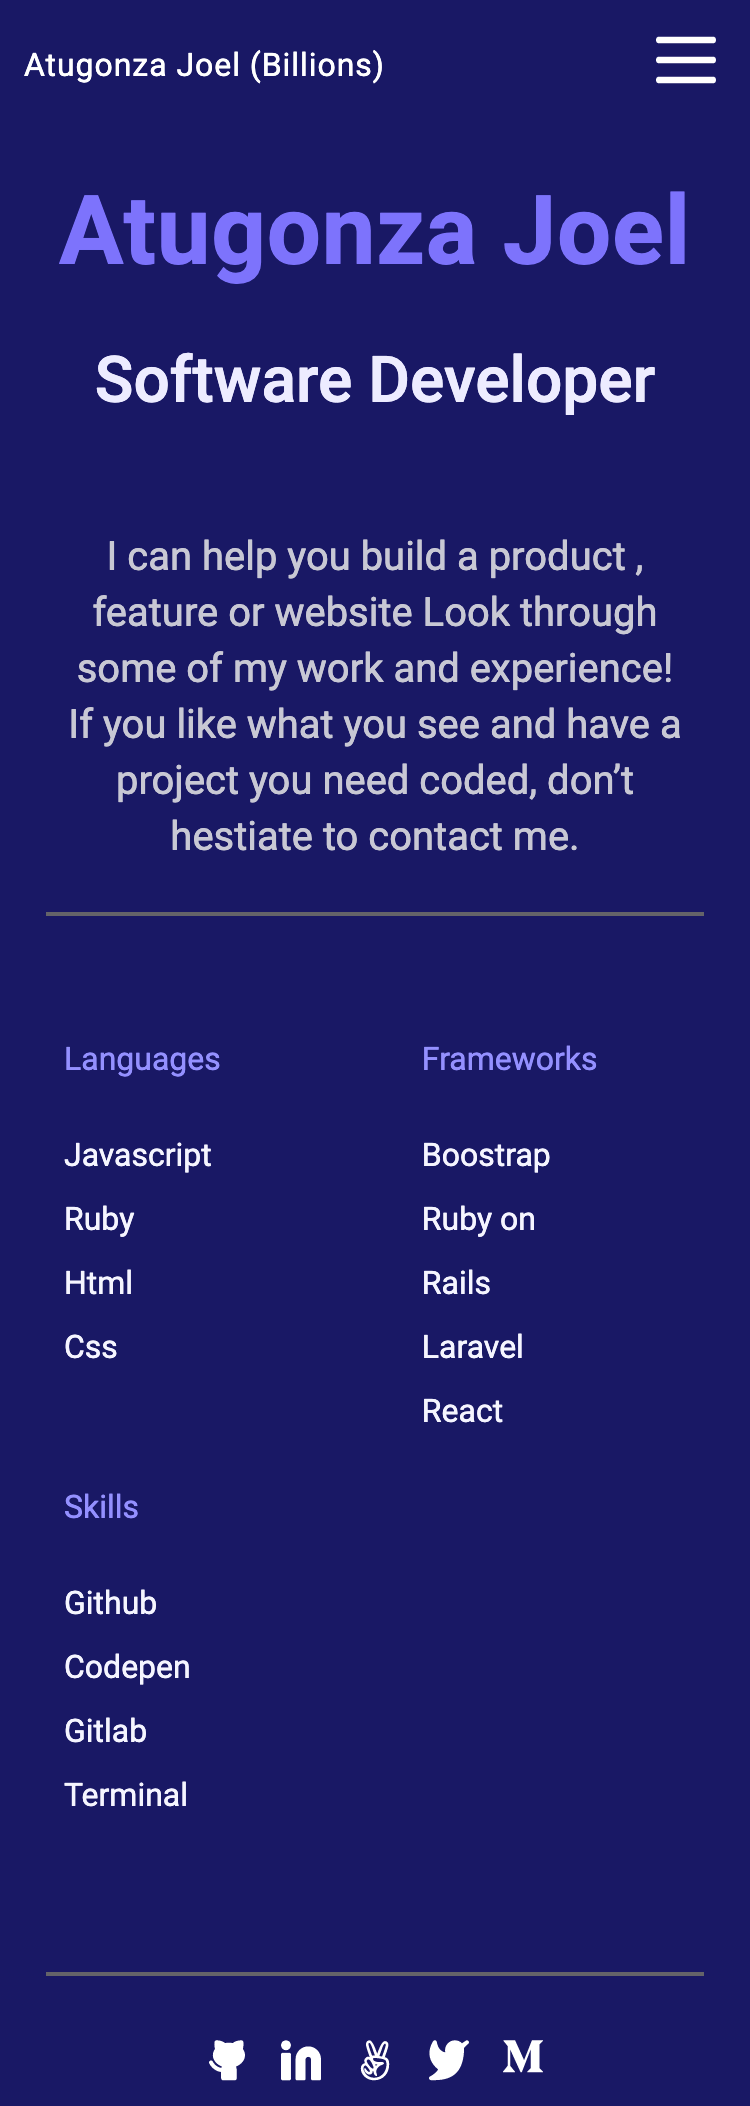
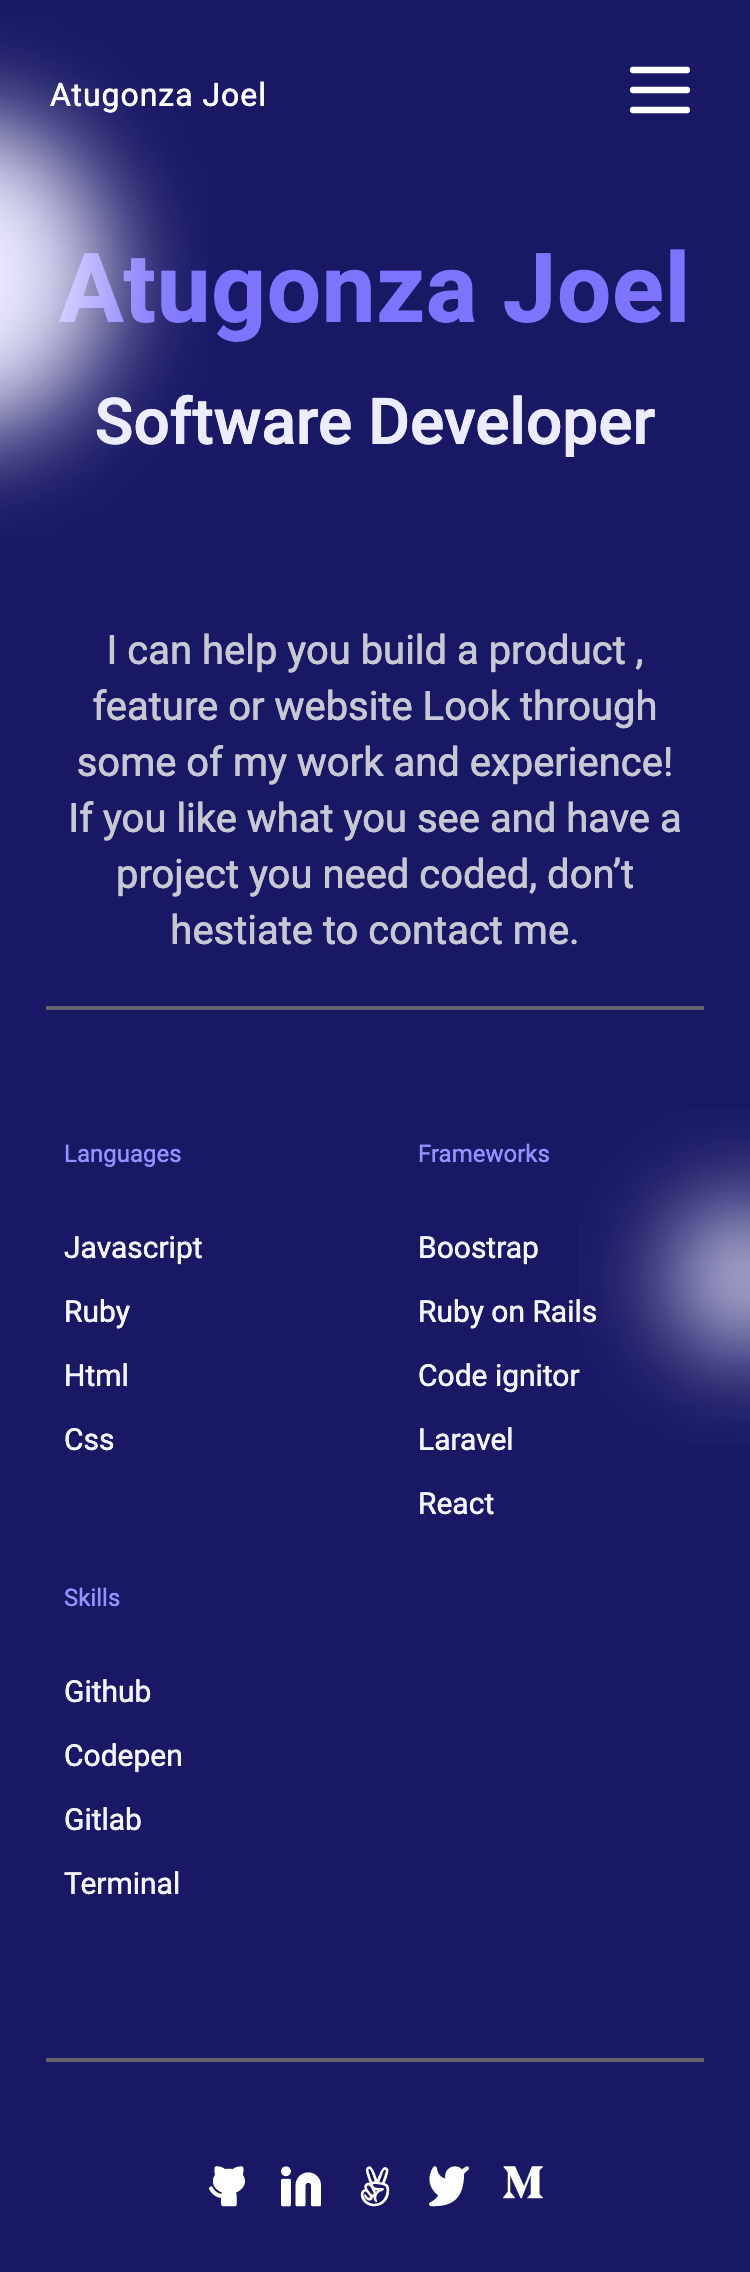
Add New website screenshot and pull request required changes

diff --git a/index.html b/index.html
@@ -14,21 +14,44 @@
 </head>
 
 <body>
-  <nav>
-    <div class="nav-container">
-      <div class="name">Atugonza Joel (Billions)</div>
-      <div class="mobile-menu-icon">
-        <svg xmlns="http://www.w3.org/2000/svg" width="2.5rem" height="2.5rem" fill="none" viewBox="0 0 24 24" stroke="currentColor">
-          <path stroke-linecap="round" stroke-linejoin="round" stroke-width="2" d="M4 6h16M4 12h16M4 18h16" />
-        </svg>
+
+  <header>
+    <nav>
+      <div class="nav-container">
+        <div class="logo">
+          <a href="#">
+            Atugonza Joel
+          </a>
+        </div>
+        <div class="mobile-menu-icon">
+          <svg xmlns="http://www.w3.org/2000/svg" width="2.5rem" height="2.5rem" fill="none" viewBox="0 0 24 24" stroke="currentColor">
+            <path stroke-linecap="round" stroke-linejoin="round" stroke-width="2" d="M4 6h16M4 12h16M4 18h16" />
+          </svg>
+        </div>
       </div>
-    </div>
-  </nav>
+    </nav>
+  </header>
+
   <section id="hero-section">
     <div class="hero-section-container">
       <div class="heading">
-        <div class="title">Atugonza Joel</div>
-        <div class="sub-title">Software Developer</div>
+        <div class="bg-svg">
+          <svg width="104" height="260" viewBox="0 0 104 260" fill="none" xmlns="http://www.w3.org/2000/svg">
+            <g filter="url(#filter0_f_48_2349)">
+              <circle cx="-26" cy="130" r="80" fill="#EDECFF" />
+            </g>
+            <defs>
+              <filter id="filter0_f_48_2349" x="-156" y="0" width="260" height="260" filterUnits="userSpaceOnUse" color-interpolation-filters="sRGB">
+                <feFlood flood-opacity="0" result="BackgroundImageFix" />
+                <feBlend mode="normal" in="SourceGraphic" in2="BackgroundImageFix" result="shape" />
+                <feGaussianBlur stdDeviation="25" result="effect1_foregroundBlur_48_2349" />
+              </filter>
+            </defs>
+          </svg>
+
+        </div>
+        <h1 class="title">Atugonza Joel</h1>
+        <h2 class="sub-title">Software Developer</h2>
       </div>
       <div class="description">
         <p>
@@ -44,6 +67,21 @@
 
   <section id="skills">
     <div class="skills-container">
+      <div class="skills-bg-svg">
+        <svg width="86" height="168" viewBox="0 0 86 168" fill="none" xmlns="http://www.w3.org/2000/svg">
+          <g filter="url(#filter0_f_48_2348)">
+            <circle cx="84" cy="84" r="34" fill="#EDECFF" />
+          </g>
+          <defs>
+            <filter id="filter0_f_48_2348" x="0" y="0" width="168" height="168" filterUnits="userSpaceOnUse" color-interpolation-filters="sRGB">
+              <feFlood flood-opacity="0" result="BackgroundImageFix" />
+              <feBlend mode="normal" in="SourceGraphic" in2="BackgroundImageFix" result="shape" />
+              <feGaussianBlur stdDeviation="25" result="effect1_foregroundBlur_48_2348" />
+            </filter>
+          </defs>
+        </svg>
+
+      </div>
       <div class="skill">
         <div class="skill-title">Languages</div>
         <div class="skill--info">
@@ -61,6 +99,7 @@
           <ul>
             <li>Boostrap</li>
             <li>Ruby on Rails</li>
+            <li>Code ignitor</li>
             <li>Laravel</li>
             <li>React</li>
           </ul>
@@ -85,34 +124,45 @@
 
   <section id="socials">
     <div class="social-container">
-      <div class="social-icon">
-        <svg width="21" height="21" viewBox="0 0 19 21" fill="none" xmlns="http://www.w3.org/2000/svg">
-          <path d="M18.4994 7.61165C18.4994 6.47176 18.1334 5.40094 17.4347 4.4683C17.7008 3.5702 17.7674 2.43031 17.7008 1.1177C17.6676 0.56502 17.235 0.150513 16.7027 0.150513C16.4032 0.150513 13.8746 0.185055 12.4106 1.53221C11.1463 1.29041 9.81544 1.29041 8.51784 1.53221C7.08716 0.185055 4.55851 0.150513 4.22579 0.150513C3.69344 0.150513 3.26091 0.56502 3.22764 1.1177C3.12783 2.43031 3.22764 3.5702 3.49381 4.4683C2.79511 5.43549 2.42912 6.5063 2.42912 7.61165C2.42912 10.0296 4.22579 12.2058 6.95407 13.242C6.85426 13.4493 6.78771 13.6911 6.72117 13.9329C3.82653 13.622 2.46239 10.8932 2.39585 10.7895C2.16295 10.2714 1.56405 10.0642 1.06498 10.3405C0.565903 10.5823 0.366272 11.2041 0.632446 11.7222C0.69899 11.8949 2.52893 15.5909 6.55481 16.0054V19.1142C6.55481 19.7015 6.98735 20.1505 7.55296 20.1505H13.3755C13.9411 20.1505 14.3737 19.7015 14.3737 19.1142V15.0037C14.3737 14.3819 14.2406 13.7947 14.0077 13.2766C16.7027 12.2058 18.4994 10.0642 18.4994 7.61165Z" fill="white" />
-        </svg>
-      </div>
-      <div class="social-icon">
-        <svg width="21" height="21" viewBox="0 0 21 21" fill="none" xmlns="http://www.w3.org/2000/svg">
-          <path d="M14.1444 3.18506C10.6556 3.18506 7.78857 6.01265 7.78857 9.52989V19.4609C7.78857 19.8402 8.09946 20.1506 8.47942 20.1506H12.0718C12.4518 20.1506 12.7627 19.8402 12.7627 19.4609V9.80575C12.7627 9.04713 13.3844 8.42644 14.1444 8.42644C14.9043 8.42644 15.5261 9.04713 15.5261 9.80575V19.4609C15.5261 19.8402 15.8369 20.1506 16.2169 20.1506H19.8093C20.1893 20.1506 20.5001 19.8402 20.5001 19.4609V9.52989C20.5001 6.04713 17.6677 3.18506 14.1444 3.18506Z" fill="white" />
-          <path d="M4.78325 6.42639H1.19085C0.810881 6.42639 0.5 6.73674 0.5 7.11605V19.4609C0.5 19.8402 0.810881 20.1505 1.19085 20.1505H4.78325C5.16321 20.1505 5.47409 19.8402 5.47409 19.4609V7.11605C5.47409 6.73674 5.16321 6.42639 4.78325 6.42639Z" fill="white" />
-          <path d="M2.98705 0.150513C1.60535 0.150513 0.5 1.25396 0.5 2.63327C0.5 4.01258 1.60535 5.11603 2.98705 5.11603C4.36874 5.11603 5.47409 4.01258 5.47409 2.63327C5.47409 1.25396 4.36874 0.150513 2.98705 0.150513Z" fill="white" />
-        </svg>
-      </div>
-      <div class="social-icon">
-        <svg width="21" height="21" viewBox="0 0 15 21" fill="none" xmlns="http://www.w3.org/2000/svg">
-          <path d="M6.96401 20.1505C11.6607 20.1505 14.5832 16.6897 14.5832 12.2247C14.5832 10.5413 14.309 9.02135 12.3982 8.56468C12.8632 7.29135 14.2048 3.60801 14.2048 2.42801C14.2048 1.38885 13.5798 0.518013 12.4657 0.518013C10.6898 0.518013 9.09818 5.66218 8.59984 6.88885C8.21401 5.77551 6.40734 0.150513 4.81484 0.150513C3.57734 0.150513 2.99651 1.04468 2.99651 2.16968C2.99651 3.54885 4.35734 7.12301 4.85068 8.49801C4.60068 8.40801 4.32984 8.32968 4.05401 8.32968C3.12234 8.32968 2.13151 9.46635 2.13151 10.3847C2.13151 10.7322 2.32651 11.2205 2.44984 11.5447C0.981509 11.9355 0.416509 12.8963 0.416509 14.3455C0.412342 17.1655 3.13568 20.1505 6.96401 20.1505ZM10.989 4.36968C11.149 3.88885 11.829 1.85801 12.4657 1.85801C12.8082 1.85801 12.8998 2.20551 12.8998 2.48301C12.8998 3.22885 11.364 7.35051 11.0248 8.26385L9.67151 8.02968L10.989 4.36968ZM4.24651 2.03801V2.03718C4.24651 1.57218 4.82401 0.25218 6.08901 3.87718L7.46651 7.79551C6.84568 7.74468 6.36401 7.67801 6.05818 7.85051C5.62401 6.72551 4.24651 3.17468 4.24651 2.03801ZM4.15484 9.68135L4.15568 9.68218C5.32151 9.68218 6.82651 13.3772 6.82651 13.8772C6.82651 14.0763 6.63151 14.3222 6.40484 14.3222C5.57234 14.3222 3.34318 11.318 3.34318 10.5055C3.34651 10.2047 3.84818 9.68135 4.15484 9.68135ZM2.81484 12.7397C3.26818 12.7397 4.97568 15.0955 4.97568 15.5955C4.97568 15.7872 4.66901 15.9197 4.51068 15.9197C3.86984 15.9197 3.61901 15.3138 2.47734 13.9122C1.29484 15.0722 3.29318 17.3063 4.79818 17.3063C5.83651 17.3063 6.51318 16.3613 6.31068 15.6655C6.45818 15.6655 6.64068 15.6772 6.77651 15.6422C6.82068 16.7005 7.13901 17.9622 8.43651 18.0522C8.43651 18.0172 8.51651 17.7747 8.51651 17.763C8.51651 17.083 8.09484 16.4897 8.09484 15.798C8.09484 14.6922 8.95818 13.6222 9.83401 12.9972C10.1523 12.763 10.539 12.618 10.9123 12.4855C11.299 12.3413 11.709 12.173 12.0023 11.8838C11.9582 11.4463 11.7757 11.0597 11.3298 11.0597C10.2273 11.0597 6.52984 11.2163 6.52984 9.50885C6.52984 9.24718 6.53401 8.99718 7.22318 8.99718C8.50901 8.99718 11.7732 9.30968 12.7282 10.1338C13.4482 10.763 13.6957 14.5555 11.494 16.958L11.4915 16.9588C10.3332 18.2088 8.85234 18.8572 7.12484 18.8572C4.76068 18.8572 2.89318 17.5838 1.99401 15.408C1.31318 13.713 2.14568 12.7397 2.81484 12.7397ZM7.56568 12.0363C7.95318 12.158 8.35068 12.1938 8.74901 12.2713C8.45401 12.4822 8.19234 12.7405 7.94068 13.0172C7.82901 12.6855 7.69318 12.3613 7.56568 12.0363Z" fill="white" />
-        </svg>
-
-      </div>
-      <div class="social-icon">
-        <svg width="21" height="21" viewBox="0 0 21 21" fill="none" xmlns="http://www.w3.org/2000/svg">
-          <path d="M20.2665 0.520156C19.9331 0.121485 19.3665 0.021818 18.9331 0.320821L16.9998 1.64972C16.0998 0.686268 14.8331 0.154708 13.4665 0.154708C10.7665 0.154708 8.53313 2.34739 8.53313 5.07164C8.53313 5.47031 8.56646 5.83576 8.66646 6.2012C6.33313 5.70287 4.93313 4.00852 4.3998 0.952048C4.33313 0.553378 4.03313 0.254376 3.63313 0.154708C3.26646 0.0550405 2.86646 0.221153 2.63313 0.520156C2.56646 0.586601 -2.93354 8.22778 5.03313 14.7062C4.26646 16.3341 1.96646 17.7294 1.06646 18.1945C0.63313 18.3939 0.43313 18.859 0.53313 19.3241C0.63313 19.7892 1.03313 20.0882 1.4998 20.0882H3.23313C13.3665 20.0882 17.9665 15.0716 18.0665 3.84241L20.1665 1.84906C20.5665 1.51683 20.5998 0.918826 20.2665 0.520156Z" fill="white" />
-        </svg>
-      </div>
-      <div class="social-icon">
-        <svg width="21" height="17" viewBox="0 0 21 17" fill="none" xmlns="http://www.w3.org/2000/svg">
-          <path d="M18.9042 2.03093L20.5 0.488197V0.150513H14.9717L11.0317 10.0604L6.54917 0.150513H0.7525V0.488197L2.61667 2.75599C2.79833 2.92357 2.89333 3.16862 2.86917 3.41535V12.3274C2.92667 12.6482 2.82333 12.9783 2.6 13.2116L0.5 15.7834V16.1168H6.45417V15.7791L4.35417 13.2116C4.12667 12.9775 4.01917 12.6532 4.065 12.3274V4.61872L9.29167 16.121H9.89917L14.3933 4.61872V13.7817C14.3933 14.0234 14.3933 14.073 14.2367 14.2314L12.62 15.812V16.1505H20.4633V15.8128L18.905 14.2709C18.7683 14.1665 18.6975 13.9914 18.7267 13.8212V2.48062C18.6975 2.30967 18.7675 2.13451 18.9042 2.03093Z" fill="white" />
-        </svg>
-      </div>
+      <ul>
+        <div class="social-icon">
+          <li>
+            <svg width="21" height="21" viewBox="0 0 19 21" fill="none" xmlns="http://www.w3.org/2000/svg">
+              <path d="M18.4994 7.61165C18.4994 6.47176 18.1334 5.40094 17.4347 4.4683C17.7008 3.5702 17.7674 2.43031 17.7008 1.1177C17.6676 0.56502 17.235 0.150513 16.7027 0.150513C16.4032 0.150513 13.8746 0.185055 12.4106 1.53221C11.1463 1.29041 9.81544 1.29041 8.51784 1.53221C7.08716 0.185055 4.55851 0.150513 4.22579 0.150513C3.69344 0.150513 3.26091 0.56502 3.22764 1.1177C3.12783 2.43031 3.22764 3.5702 3.49381 4.4683C2.79511 5.43549 2.42912 6.5063 2.42912 7.61165C2.42912 10.0296 4.22579 12.2058 6.95407 13.242C6.85426 13.4493 6.78771 13.6911 6.72117 13.9329C3.82653 13.622 2.46239 10.8932 2.39585 10.7895C2.16295 10.2714 1.56405 10.0642 1.06498 10.3405C0.565903 10.5823 0.366272 11.2041 0.632446 11.7222C0.69899 11.8949 2.52893 15.5909 6.55481 16.0054V19.1142C6.55481 19.7015 6.98735 20.1505 7.55296 20.1505H13.3755C13.9411 20.1505 14.3737 19.7015 14.3737 19.1142V15.0037C14.3737 14.3819 14.2406 13.7947 14.0077 13.2766C16.7027 12.2058 18.4994 10.0642 18.4994 7.61165Z" fill="white" />
+            </svg>
+          </li>
+        </div>
+        <div class="social-icon">
+          <li>
+            <svg width="21" height="21" viewBox="0 0 21 21" fill="none" xmlns="http://www.w3.org/2000/svg">
+              <path d="M14.1444 3.18506C10.6556 3.18506 7.78857 6.01265 7.78857 9.52989V19.4609C7.78857 19.8402 8.09946 20.1506 8.47942 20.1506H12.0718C12.4518 20.1506 12.7627 19.8402 12.7627 19.4609V9.80575C12.7627 9.04713 13.3844 8.42644 14.1444 8.42644C14.9043 8.42644 15.5261 9.04713 15.5261 9.80575V19.4609C15.5261 19.8402 15.8369 20.1506 16.2169 20.1506H19.8093C20.1893 20.1506 20.5001 19.8402 20.5001 19.4609V9.52989C20.5001 6.04713 17.6677 3.18506 14.1444 3.18506Z" fill="white" />
+              <path d="M4.78325 6.42639H1.19085C0.810881 6.42639 0.5 6.73674 0.5 7.11605V19.4609C0.5 19.8402 0.810881 20.1505 1.19085 20.1505H4.78325C5.16321 20.1505 5.47409 19.8402 5.47409 19.4609V7.11605C5.47409 6.73674 5.16321 6.42639 4.78325 6.42639Z" fill="white" />
+              <path d="M2.98705 0.150513C1.60535 0.150513 0.5 1.25396 0.5 2.63327C0.5 4.01258 1.60535 5.11603 2.98705 5.11603C4.36874 5.11603 5.47409 4.01258 5.47409 2.63327C5.47409 1.25396 4.36874 0.150513 2.98705 0.150513Z" fill="white" />
+            </svg>
+          </li>
+        </div>
+        <div class="social-icon">
+          <li>
+            <svg width="21" height="21" viewBox="0 0 15 21" fill="none" xmlns="http://www.w3.org/2000/svg">
+              <path d="M6.96401 20.1505C11.6607 20.1505 14.5832 16.6897 14.5832 12.2247C14.5832 10.5413 14.309 9.02135 12.3982 8.56468C12.8632 7.29135 14.2048 3.60801 14.2048 2.42801C14.2048 1.38885 13.5798 0.518013 12.4657 0.518013C10.6898 0.518013 9.09818 5.66218 8.59984 6.88885C8.21401 5.77551 6.40734 0.150513 4.81484 0.150513C3.57734 0.150513 2.99651 1.04468 2.99651 2.16968C2.99651 3.54885 4.35734 7.12301 4.85068 8.49801C4.60068 8.40801 4.32984 8.32968 4.05401 8.32968C3.12234 8.32968 2.13151 9.46635 2.13151 10.3847C2.13151 10.7322 2.32651 11.2205 2.44984 11.5447C0.981509 11.9355 0.416509 12.8963 0.416509 14.3455C0.412342 17.1655 3.13568 20.1505 6.96401 20.1505ZM10.989 4.36968C11.149 3.88885 11.829 1.85801 12.4657 1.85801C12.8082 1.85801 12.8998 2.20551 12.8998 2.48301C12.8998 3.22885 11.364 7.35051 11.0248 8.26385L9.67151 8.02968L10.989 4.36968ZM4.24651 2.03801V2.03718C4.24651 1.57218 4.82401 0.25218 6.08901 3.87718L7.46651 7.79551C6.84568 7.74468 6.36401 7.67801 6.05818 7.85051C5.62401 6.72551 4.24651 3.17468 4.24651 2.03801ZM4.15484 9.68135L4.15568 9.68218C5.32151 9.68218 6.82651 13.3772 6.82651 13.8772C6.82651 14.0763 6.63151 14.3222 6.40484 14.3222C5.57234 14.3222 3.34318 11.318 3.34318 10.5055C3.34651 10.2047 3.84818 9.68135 4.15484 9.68135ZM2.81484 12.7397C3.26818 12.7397 4.97568 15.0955 4.97568 15.5955C4.97568 15.7872 4.66901 15.9197 4.51068 15.9197C3.86984 15.9197 3.61901 15.3138 2.47734 13.9122C1.29484 15.0722 3.29318 17.3063 4.79818 17.3063C5.83651 17.3063 6.51318 16.3613 6.31068 15.6655C6.45818 15.6655 6.64068 15.6772 6.77651 15.6422C6.82068 16.7005 7.13901 17.9622 8.43651 18.0522C8.43651 18.0172 8.51651 17.7747 8.51651 17.763C8.51651 17.083 8.09484 16.4897 8.09484 15.798C8.09484 14.6922 8.95818 13.6222 9.83401 12.9972C10.1523 12.763 10.539 12.618 10.9123 12.4855C11.299 12.3413 11.709 12.173 12.0023 11.8838C11.9582 11.4463 11.7757 11.0597 11.3298 11.0597C10.2273 11.0597 6.52984 11.2163 6.52984 9.50885C6.52984 9.24718 6.53401 8.99718 7.22318 8.99718C8.50901 8.99718 11.7732 9.30968 12.7282 10.1338C13.4482 10.763 13.6957 14.5555 11.494 16.958L11.4915 16.9588C10.3332 18.2088 8.85234 18.8572 7.12484 18.8572C4.76068 18.8572 2.89318 17.5838 1.99401 15.408C1.31318 13.713 2.14568 12.7397 2.81484 12.7397ZM7.56568 12.0363C7.95318 12.158 8.35068 12.1938 8.74901 12.2713C8.45401 12.4822 8.19234 12.7405 7.94068 13.0172C7.82901 12.6855 7.69318 12.3613 7.56568 12.0363Z" fill="white" />
+            </svg>
+          </li>
+        </div>
+        <div class="social-icon">
+          <li>
+            <svg width="21" height="21" viewBox="0 0 21 21" fill="none" xmlns="http://www.w3.org/2000/svg">
+              <path d="M20.2665 0.520156C19.9331 0.121485 19.3665 0.021818 18.9331 0.320821L16.9998 1.64972C16.0998 0.686268 14.8331 0.154708 13.4665 0.154708C10.7665 0.154708 8.53313 2.34739 8.53313 5.07164C8.53313 5.47031 8.56646 5.83576 8.66646 6.2012C6.33313 5.70287 4.93313 4.00852 4.3998 0.952048C4.33313 0.553378 4.03313 0.254376 3.63313 0.154708C3.26646 0.0550405 2.86646 0.221153 2.63313 0.520156C2.56646 0.586601 -2.93354 8.22778 5.03313 14.7062C4.26646 16.3341 1.96646 17.7294 1.06646 18.1945C0.63313 18.3939 0.43313 18.859 0.53313 19.3241C0.63313 19.7892 1.03313 20.0882 1.4998 20.0882H3.23313C13.3665 20.0882 17.9665 15.0716 18.0665 3.84241L20.1665 1.84906C20.5665 1.51683 20.5998 0.918826 20.2665 0.520156Z" fill="white" />
+            </svg>
+          </li>
+        </div>
+        <div class="social-icon">
+          <li>
+            <svg width="21" height="17" viewBox="0 0 21 17" fill="none" xmlns="http://www.w3.org/2000/svg">
+              <path d="M18.9042 2.03093L20.5 0.488197V0.150513H14.9717L11.0317 10.0604L6.54917 0.150513H0.7525V0.488197L2.61667 2.75599C2.79833 2.92357 2.89333 3.16862 2.86917 3.41535V12.3274C2.92667 12.6482 2.82333 12.9783 2.6 13.2116L0.5 15.7834V16.1168H6.45417V15.7791L4.35417 13.2116C4.12667 12.9775 4.01917 12.6532 4.065 12.3274V4.61872L9.29167 16.121H9.89917L14.3933 4.61872V13.7817C14.3933 14.0234 14.3933 14.073 14.2367 14.2314L12.62 15.812V16.1505H20.4633V15.8128L18.905 14.2709C18.7683 14.1665 18.6975 13.9914 18.7267 13.8212V2.48062C18.6975 2.30967 18.7675 2.13451 18.9042 2.03093Z" fill="white" />
+            </svg>
+          </li>
+        </div>
+      </ul>
     </div>
   </section>
 </body>

diff --git a/styles/mobile.css b/styles/mobile.css
@@ -4,9 +4,18 @@
   display: flex;
   justify-content: space-between;
   align-items: center;
-  margin: 10px 12px;
+  margin: 25px 25px;
+}
+.bg-svg {
+  position: absolute;
+  left: 0;
+  top: 0.5rem;
 }
 
+.logo a{
+color: #fff;
+text-decoration: none;
+}
 .hero-section-container {
   color: #fff;
   text-align: center;
@@ -20,7 +29,7 @@
   line-height: 72px;
   text-align: center;
   letter-spacing: 0.37px;
-  padding-top: 1rem;
+  padding-top: 1rem 1rem 0 1rem;
 }
 
 .sub-title {
@@ -29,14 +38,14 @@
   font-weight: 500;
   font-size: 32px;
   line-height: 44px;
-  padding: 1rem 1rem 0 1rem;
+margin-top: -2rem;
 }
 
 .description {
   padding: 2rem 2rem 0 2rem;
   color: #c8c8d4;
   font-style: normal;
-  font-weight: normal;
+  font-weight: 400px;
   font-size: 20px;
   line-height: 28px;
 }
@@ -52,25 +61,35 @@
   margin: 24px auto;
 }
 
-.skill-title {
-  color: #9490ff;
-}
-
-.skill--info {
-  color: #f5f5ff;
-}
-
 .skills-container {
   display: flex;
   justify-content: space-between;
+  flex-direction: row;
   flex-wrap: wrap;
   padding: 2rem;
 }
 
 .skill {
   padding-right: 4rem;
-  width: 68.08px;
+  width: 70px;
   line-height: 2rem;
+}
+
+.skill-title {
+  color: #9490ff;
+  font-size: 12px;
+}
+
+.skill--info {
+  color: #f5f5ff;
+  font-size: 15px;
+  width: 100px !important;
+}
+
+.skills-bg-svg {
+position: absolute;
+right: 0;
+top: 555px;
 }
 
 ul li {
@@ -79,12 +98,12 @@ ul li {
   margin-left: -2.5rem;
 }
 
-.social-container {
+.social-container ul{
   display: flex;
   flex-direction: row;
   justify-content: center;
 }
 
-.social-icon {
-  padding: 8px;
+.social-icon > li {
+  padding: 28px;
 }
